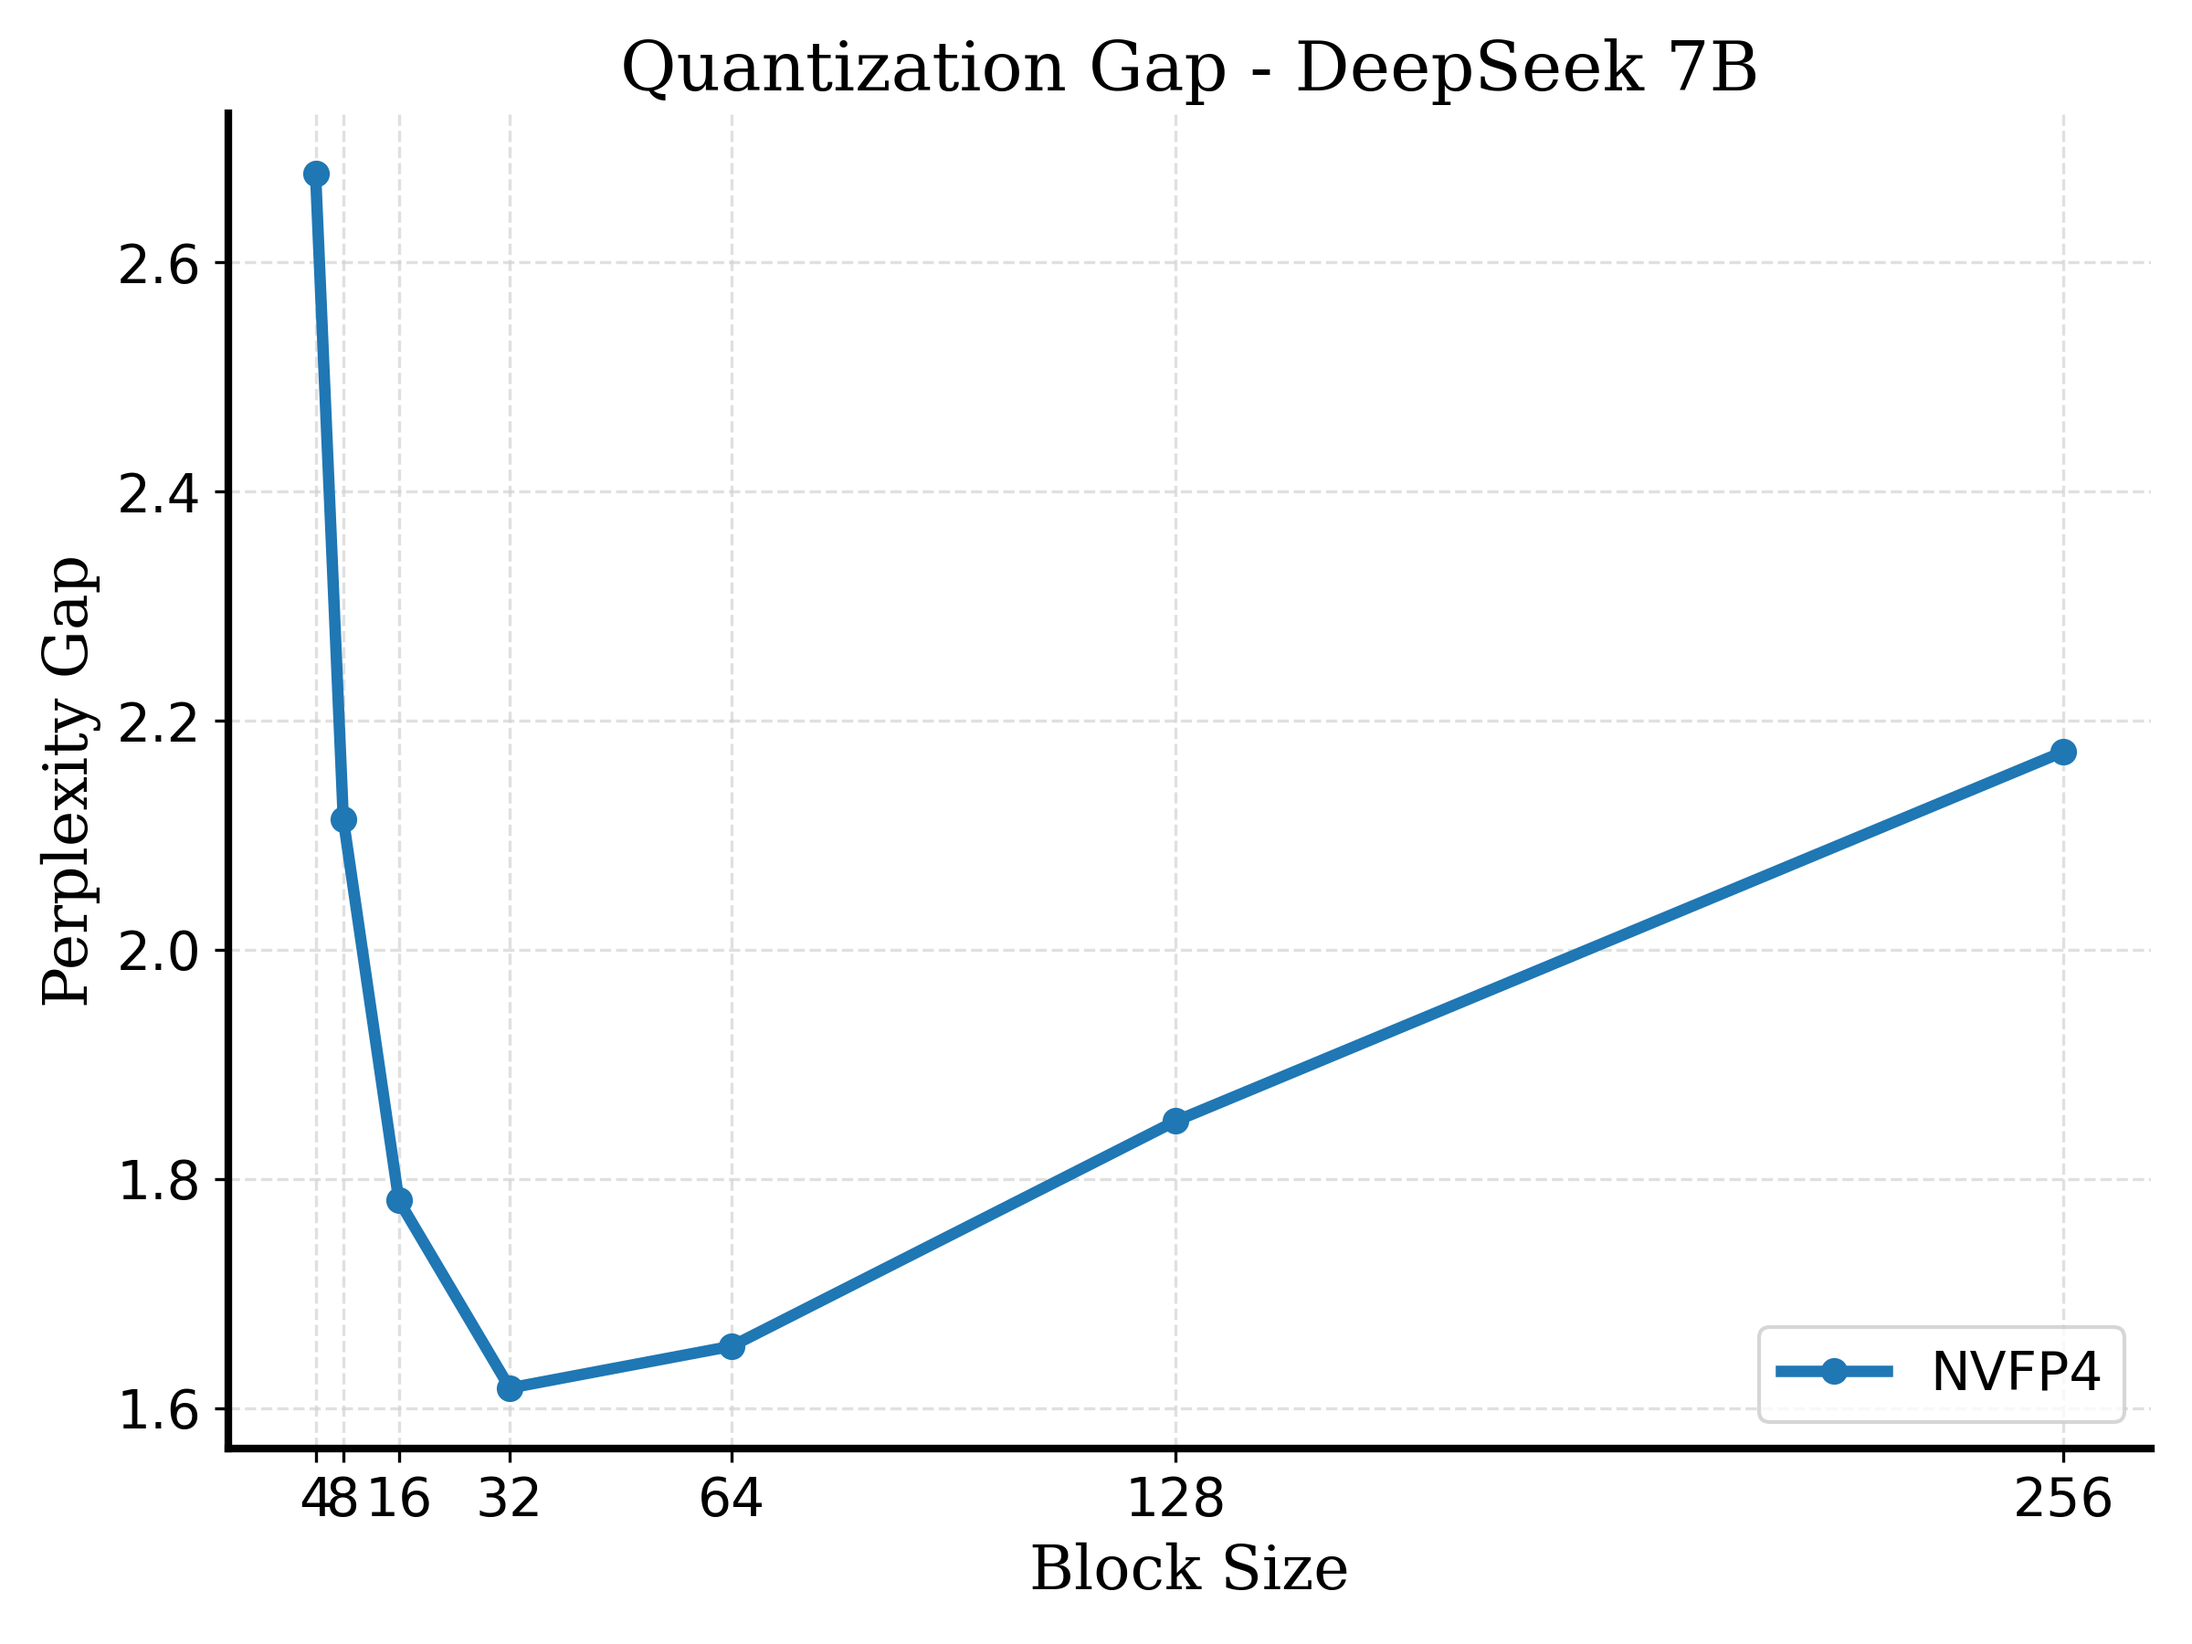
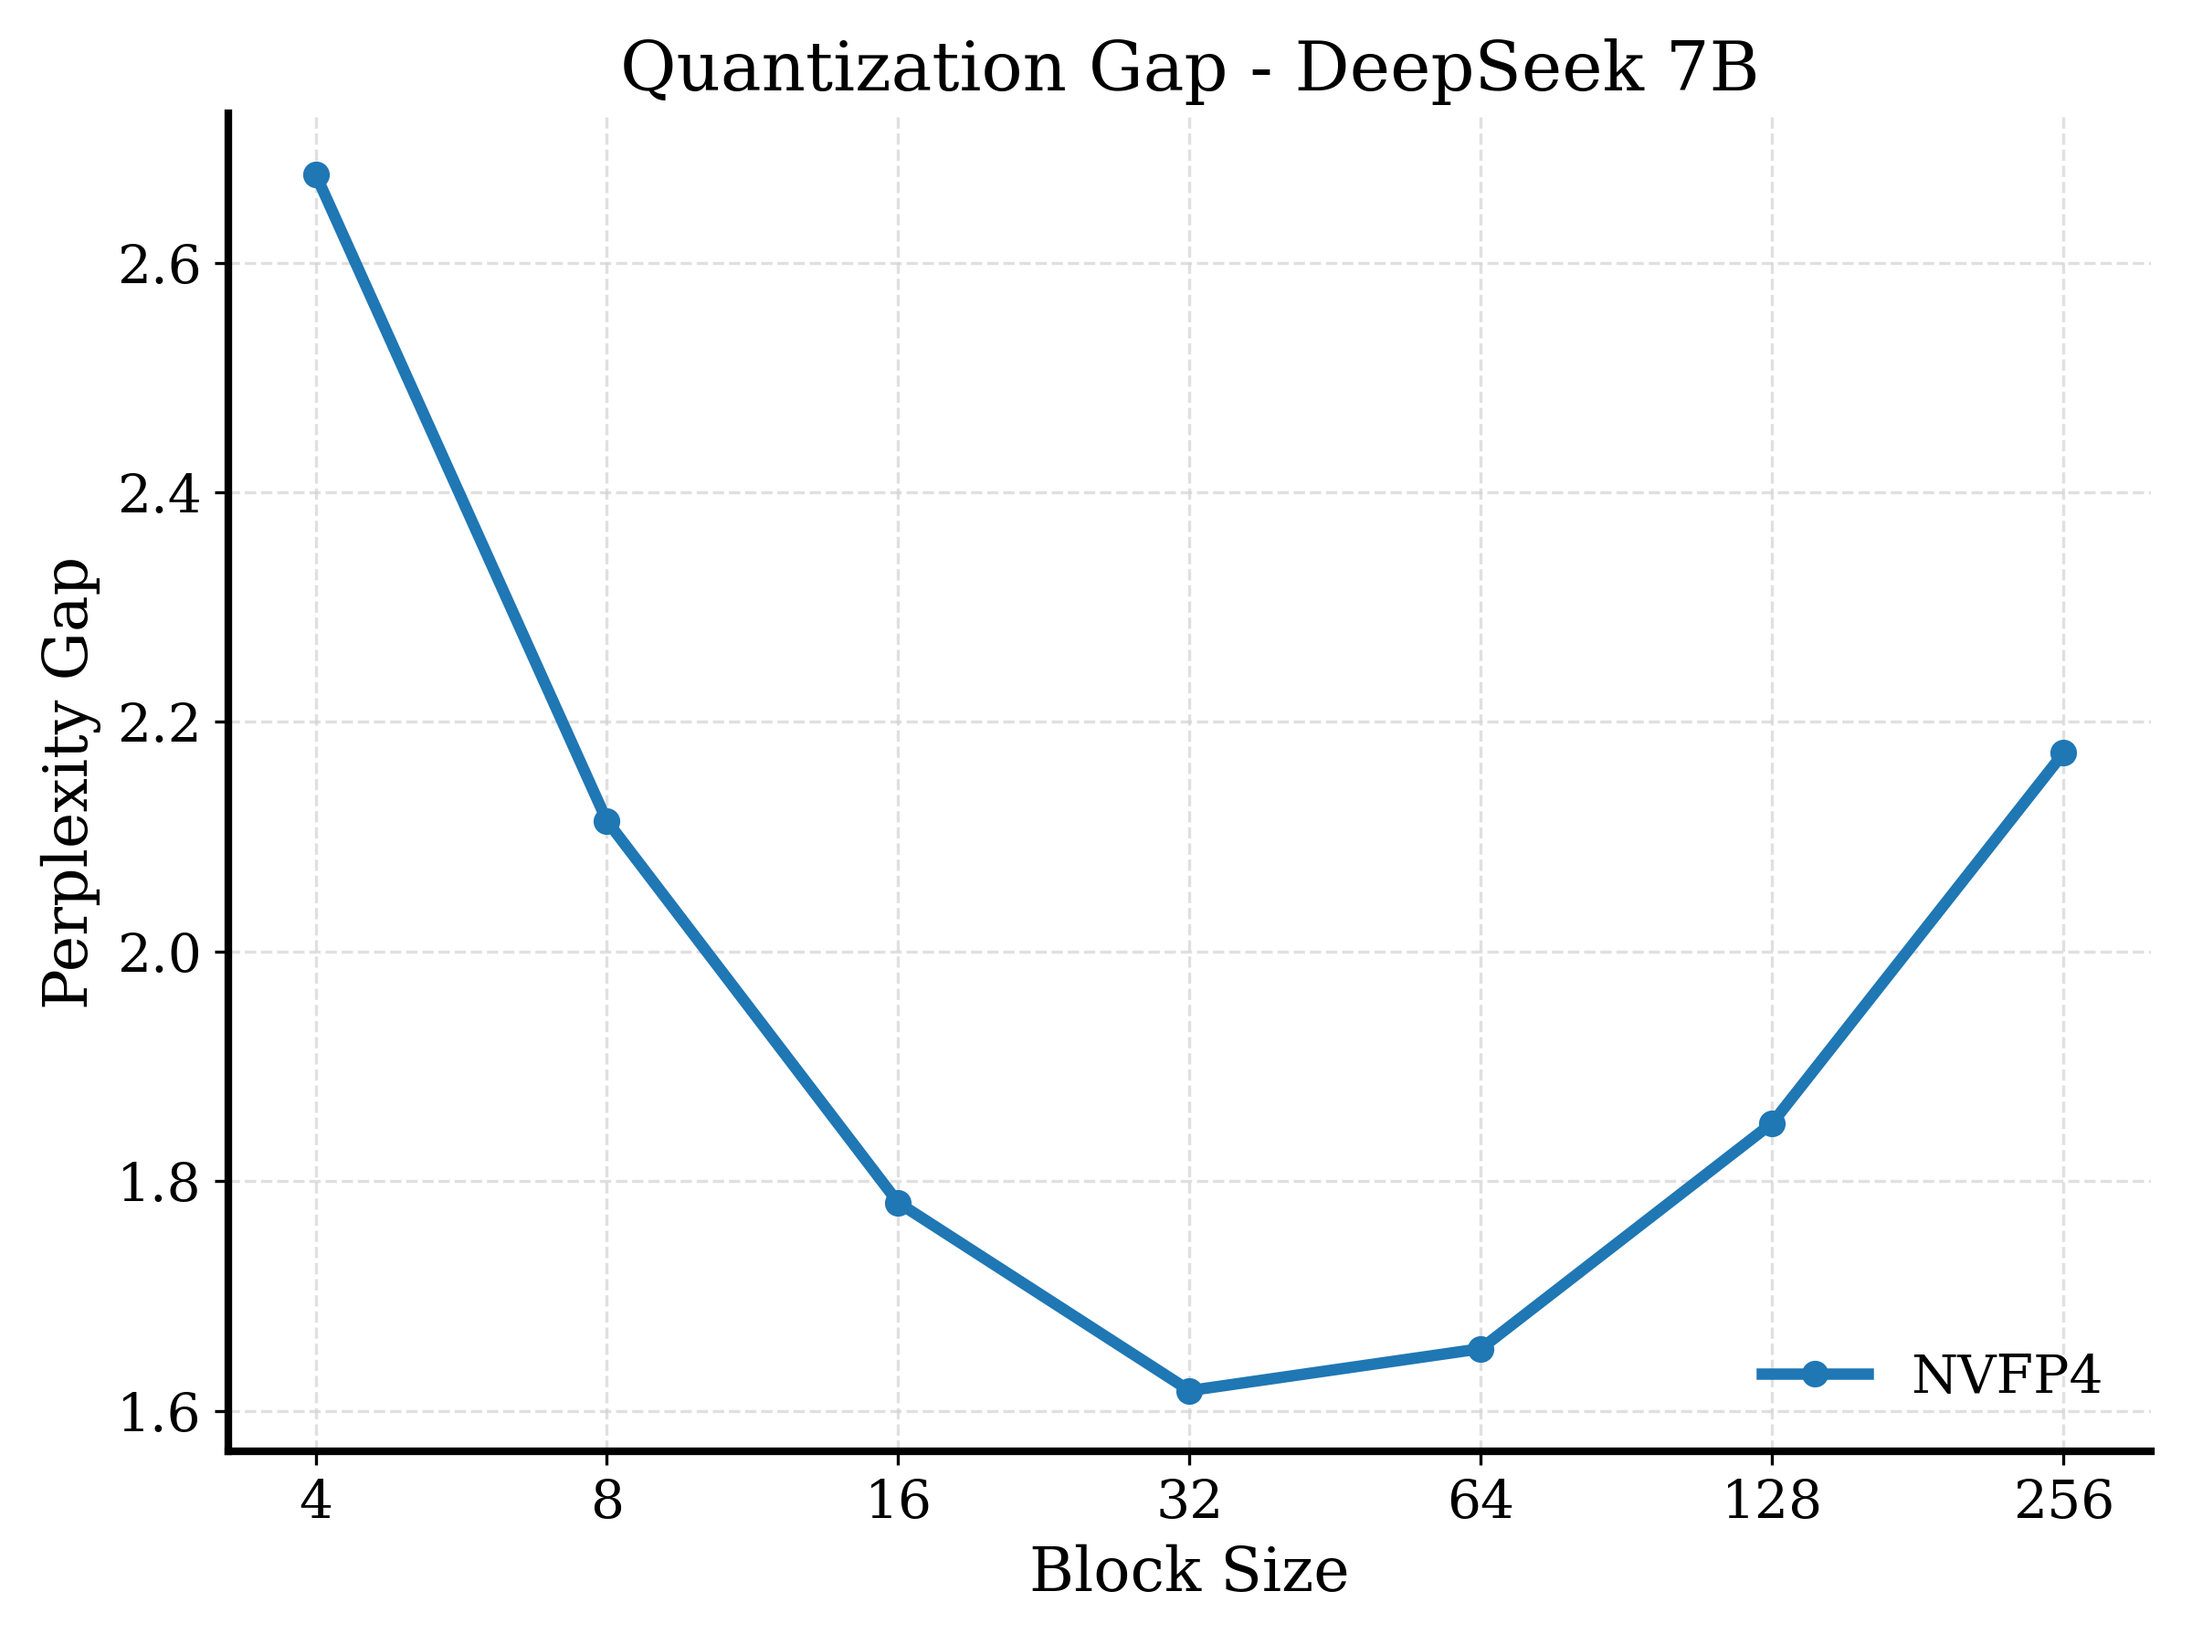
Updated plots with log scale and style fixes, and side-by-side in README

diff --git a/create_plots.py b/create_plots.py
@@ -2,14 +2,15 @@ import pandas as pd
 import matplotlib.pyplot as plt
 import os
 
+# Global font setting to serif
+plt.rcParams["font.family"] = "serif"
+
 def plot_model(model_name, df, output_path):
     plt.figure(figsize=(8, 6))
     
-    # Extract block sizes from columns
     columns = [c for c in df.columns if c.startswith("BS=")]
     block_sizes = [int(c.split("=")[1]) for c in columns]
     
-    # Extract gaps for the specific model
     gaps = []
     for c in columns:
         val = df.loc[model_name, c]
@@ -18,7 +19,6 @@ def plot_model(model_name, df, output_path):
         else:
             gaps.append(float(val))
             
-    # Filter out None values for plotting
     valid_indices = [i for i, x in enumerate(gaps) if x is not None]
     plot_x = [block_sizes[i] for i in valid_indices]
     plot_y = [gaps[i] for i in valid_indices]
@@ -28,23 +28,22 @@ def plot_model(model_name, df, output_path):
         plt.close()
         return
         
-    # Match style as exactly as possible
     # Blue line with circles
     plt.plot(plot_x, plot_y, marker="o", linestyle="-", linewidth=3, color="#1f77b4", label="NVFP4")
     
-    # Customizing plot to match style
-    plt.xlabel("Block Size", fontsize=16, fontname="serif")
-    plt.ylabel("Perplexity Gap", fontsize=16, fontname="serif")
-    plt.title(f"Quantization Gap - {model_name}", fontsize=18, fontname="serif")
+    plt.xlabel("Block Size", fontsize=16)
+    plt.ylabel("Perplexity Gap", fontsize=16)
+    plt.title(f"Quantization Gap - {model_name}", fontsize=18)
+    
+    # Log scale on X axis (base 2)
+    plt.xscale("log", base=2)
     
     # X-ticks to match specific block sizes
     plt.xticks(block_sizes, block_sizes, fontsize=14)
     plt.yticks(fontsize=14)
     
-    # Light gray dashed grid
     plt.grid(True, linestyle="--", alpha=0.7, color="#d3d3d3")
     
-    # Bold black axes
     ax = plt.gca()
     ax.spines["top"].set_visible(False)
     ax.spines["right"].set_visible(False)
@@ -53,7 +52,8 @@ def plot_model(model_name, df, output_path):
     ax.spines["left"].set_linewidth(2)
     ax.spines["left"].set_color("black")
     
-    plt.legend(loc="lower right", fontsize=14)
+    # No legend frame
+    plt.legend(loc="lower right", fontsize=14, frameon=False)
     plt.tight_layout()
     
     plt.savefig(output_path, dpi=300)

diff --git a/update_readme.py b/update_readme.py
@@ -14,12 +14,22 @@ def update_readme():
     # Generate Markdown table
     md_table = df.to_markdown()
     
-    # Append image links
+    # Append image links side-by-side (two per line)
     image_links = "\n### Graphs\n"
-    for m in df.index:
-        file_suffix = m.lower().replace(" ", "_")
-        image_links += f"![{m} Gap](gap_{file_suffix}.png)\n"
+    models = df.index.tolist()
+    for i in range(0, len(models), 2):
+        m1 = models[i]
+        suffix1 = m1.lower().replace(" ", "_")
+        link1 = f"![{m1} Gap](gap_{suffix1}.png)"
         
+        if i + 1 < len(models):
+            m2 = models[i+1]
+            suffix2 = m2.lower().replace(" ", "_")
+            link2 = f"![{m2} Gap](gap_{suffix2}.png)"
+            image_links += f"{link1} {link2}\n"
+        else:
+            image_links += f"{link1}\n"
+            
     full_content = md_table + "\n" + image_links
     
     if not os.path.exists(readme_path):

diff --git a/README.md b/README.md
@@ -71,10 +71,8 @@ This section is automatically updated by the evaluation script after each run. D
 | DeepSeek 7B    |    12.2778 | 2.67717 | 2.1138 |  1.7812 |  1.6175 |  1.654  |   1.8505 |   2.1729 |
 
 ### Graphs
-![Llama 3.1 8B Gap](gap_llama_3.1_8b.png)
-![Granite 3.3 8B Gap](gap_granite_3.3_8b.png)
-![Qwen 2.5 14B Gap](gap_qwen_2.5_14b.png)
-![DeepSeek 7B Gap](gap_deepseek_7b.png)
+![Llama 3.1 8B Gap](gap_llama_3.1_8b.png) ![Granite 3.3 8B Gap](gap_granite_3.3_8b.png)
+![Qwen 2.5 14B Gap](gap_qwen_2.5_14b.png) ![DeepSeek 7B Gap](gap_deepseek_7b.png)
 
 
 <!-- RESULTS_END -->
